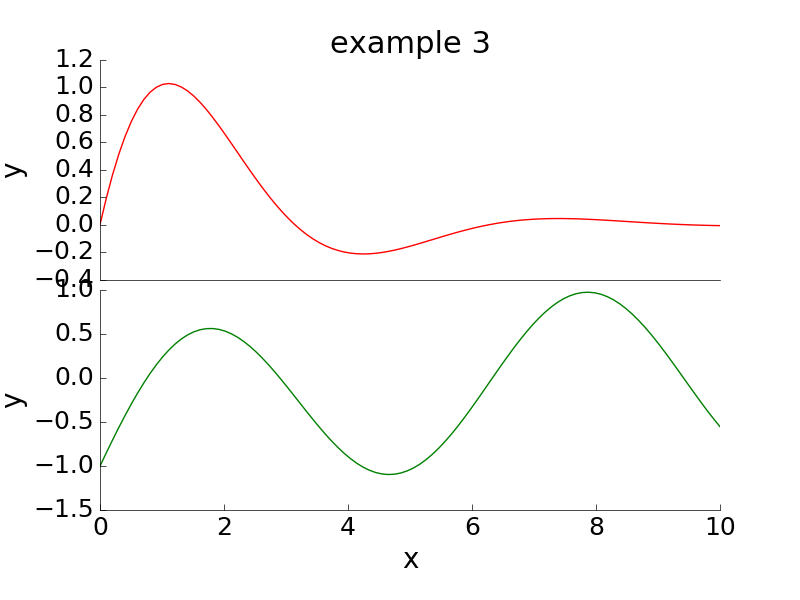
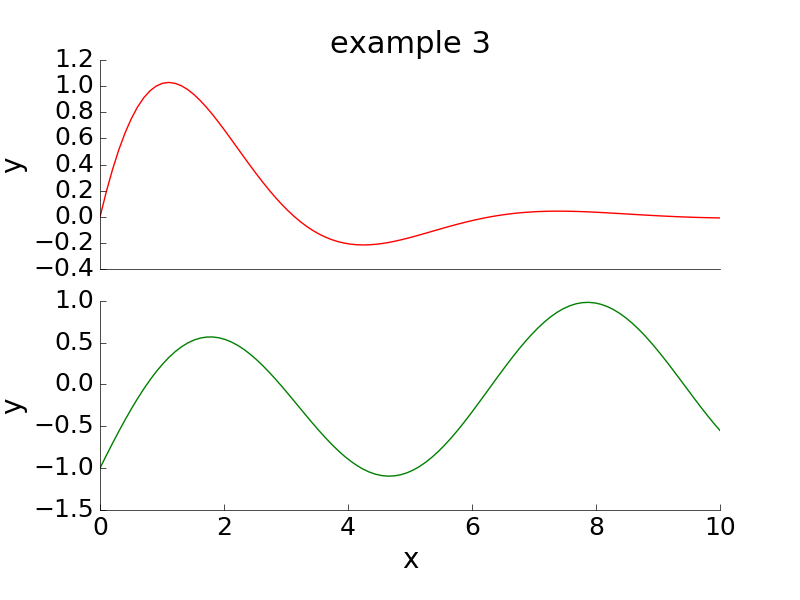
updated subplots_adjust to prevent overlapping in example 3

diff --git a/examples_for_plot_assistant.py b/examples_for_plot_assistant.py
@@ -35,5 +35,5 @@ fig, ax2 = pa.title_and_axes(fig, ax2, '', 'x', 'y')
 ax1.xaxis.set_major_locator(ticker.NullLocator()) # removing xtick labels from the top plot because they coincide with those of the bottom plot
 ax1.plot(x, 2*y*z, 'r-')
 ax2.plot(x, y-z, 'g-')
-plt.subplots_adjust(bottom=0.15, top=0.9, hspace=0.05) # customizing the subplot positions so that axis labels are not cut off
+plt.subplots_adjust(bottom=0.15, top=0.9, hspace=0.15) # customizing the subplot positions so that axis labels are not cut off
 pa.save_and_clear_plot(fig, [ax1, ax2], 'example_3', 'png')
